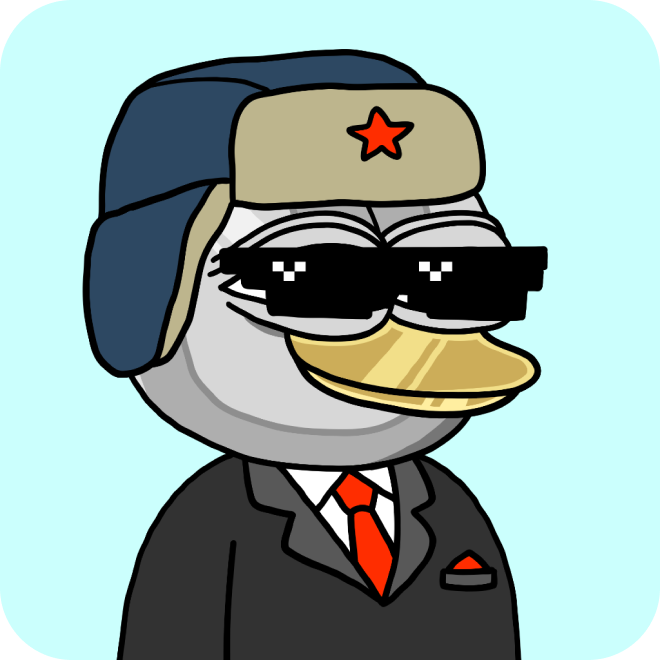
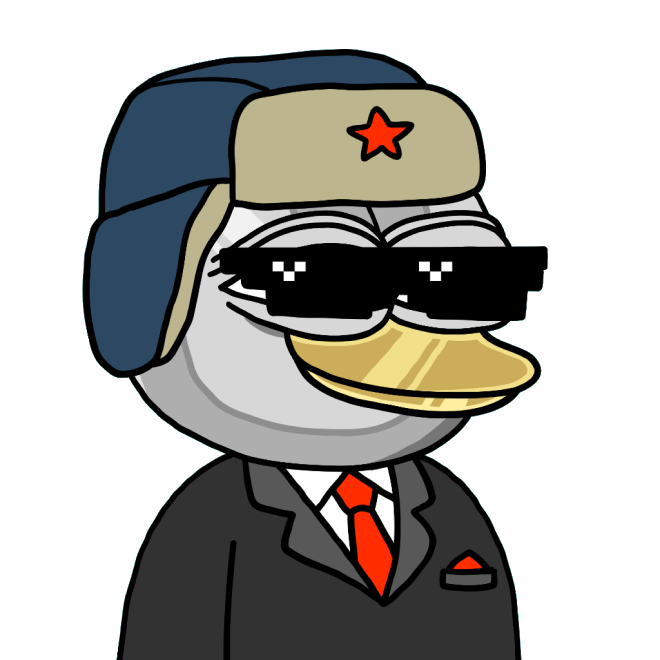
Change background feature

diff --git a/components/MintingPageContent.tsx b/components/MintingPageContent.tsx
@@ -4,22 +4,24 @@ import Link from "next/link";
 import { useRouter } from "next/router";
 import { Button } from "./ui/button";
 import { ChevronLeft } from "lucide-react";
-import ChooseItemCarousel from "./chooseItemCarousel";
+import ChooseItemCarousel from "./ChooseItemCarousel";
 import backgroundColorSample from "@/data/backgroundColorSample.json"
 import backgroundColorSample2 from "@/data/backgroundColorSample2.json"
-
+import { useState } from "react";
 
 const MintingPageContent = () => {
 
     const router = useRouter();
     const tokenNamePath = router.asPath.substring(1); // Get tokenName by path without "/"
     // console.log("tokenNamePath:", tokenNamePath)
+    const [backgroundColor, setBackgroundColor] = useState("test");
+
 
     return (
-        <main className="flex flex-col items-center p-6 min-h-screen font-rubik text-lg">
+        <main className="flex flex-col items-center p-6 min-h-screen font-rubik text-lg mx-auto">
             <p className="font-medium pt-6">PFP GENERATOR</p>
             
-            <div className="flex justify-between w-full mt-7 max-w-[1080px]">
+            <div className="flex justify-between w-full mt-7">
                 <Link href="#" onClick={(e) => { e.preventDefault(); router.back(); }} className="w-full"><Button className="rounded-full h-[48px] w-[48px] bg-gray-200 hover:bg-gray-300"><ChevronLeft className="-ml-1 min-h-8 min-w-8 text-black"/></Button></Link>
                 <Button className="px-9 py-6 bg-gray-200 hover:bg-gray-300"><p className="text-black font-[450]">CONNECT WALLET</p></Button>
             </div>
@@ -28,25 +30,35 @@ const MintingPageContent = () => {
                 <div className="flex flex-col lg:mx-auto">
                     <div className="grid grid-cols-1 gap-4">
                         {nftSampleData.filter((data) => data.tokenName === tokenNamePath).map((card, index) => (
-                            <div key={index} className="flex flex-col gap-4">
-                                <Image src={card.baseImagePath} alt={card.baseImagePath} width={140} height={140}
-                                    className="rounded-xl w-full shadow" />
-                                <Link href={`/${card.tokenName}`}><Button className="bg-gray-200 hover:bg-gray-300 text-lg py-8 w-full rounded-xl text-center text-black font-medium">GENERATE RANDOMLY</Button></Link>
-                                <div className="grid grid-cols-2 gap-5 w-full">
-                                    <Button className="bg-gray-200 hover:bg-gray-300 text-lg py-8 rounded-xl text-center font-medium text-black">MINT</Button>
-                                    <Button className="bg-gray-200 hover:bg-gray-300 text-lg py-8 rounded-xl text-center font-medium text-black">DOWNLOAD</Button>
+                            <div key={index} className="flex flex-col lg:flex-row gap-4">
+                                
+                                <div className="flex flex-col gap-4 ">
+                                    <div className={`${backgroundColor} rounded-xl shadow max-w-[320px]`}>
+                                        <Image src={card.baseImagePath} alt={card.baseImagePath} width={140} height={140}
+                                        className="w-full" />
+                                    </div>
+                                    <Link href={`/${card.tokenName}`}><Button className="bg-gray-200 hover:bg-gray-300 text-lg py-8 w-full rounded-xl text-center text-black font-medium">GENERATE RANDOMLY</Button></Link>
+                                    <div className="grid grid-cols-2 gap-5 w-full">
+                                        <Button className="bg-gray-200 hover:bg-gray-300 text-lg py-8 rounded-xl text-center font-medium text-black">MINT</Button>
+                                        <Button className="bg-gray-200 hover:bg-gray-300 text-lg py-8 rounded-xl text-center font-medium text-black">DOWNLOAD</Button>
+                                    </div>
                                 </div>
+                                
                                 <div className="bg-gray-100 rounded-xl p-4">
                                     <p className="text-base font-medium py-2 text-center">CREATE YOUR PFP</p>
                                     <p className="text-base font-medium py-4">BACKGROUND</p>
-                                    {/* <ChooseItemCarousel data={backgroundColorSample} /> */}
-                                    <ChooseItemCarousel />
+                                    <ChooseItemCarousel setVariable={setBackgroundColor} data={backgroundColorSample} />
+                                    {/* <ChooseItemCarousel /> */}
                                     <p className="text-base font-medium py-4">BASE</p>
-                                    {/* <ChooseItemCarousel data={backgroundColorSample2} /> */}
+                                    <ChooseItemCarousel setVariable={setBackgroundColor} data={backgroundColorSample} />
                                     <p className="text-base font-medium py-4">EYES</p>
-                                    {/* <ChooseItemCarousel data={backgroundColorSample2} /> */}
+                                    <ChooseItemCarousel setVariable={setBackgroundColor} data={backgroundColorSample} />
                                     <p className="text-base font-medium py-4">HEAD</p>
-                                    {/* <ChooseItemCarousel data={backgroundColorSample2} /> */}
+                                    <ChooseItemCarousel setVariable={setBackgroundColor} data={backgroundColorSample2} />
+                                    <p className="text-base font-medium py-4">HEAD</p>
+                                    <ChooseItemCarousel setVariable={setBackgroundColor} data={backgroundColorSample2} />
+                                    <p className="text-base font-medium py-4">HEAD</p>
+                                    <ChooseItemCarousel setVariable={setBackgroundColor} data={backgroundColorSample2} />
                                 </div>
                             </div>
                         ))}

diff --git a/components/ChooseItemCarousel.tsx b/components/ChooseItemCarousel.tsx
@@ -1,10 +1,18 @@
-import backgroundColorSample from "@/data/backgroundColorSample.json";
+import { useState } from "react";
 
-const ChooseItemCarousel = () => {
+interface ChooseItemCarouselProps {
+  data?: string[]; // Make data optional
+  setVariable: (value: string) => void; // Add setVariable prop
+}
+
+const ChooseItemCarousel: React.FC<ChooseItemCarouselProps> = ({ data = [], setVariable }) => { // Default to an empty array
+
   return (
-    <div className="flex gap-2 w-full overflow-x-auto">
-      {backgroundColorSample.map((item, index) => (
-        <div key={index} className={`min-h-16 min-w-16 rounded-lg ${item}`} />
+    <div className="flex gap-2 w-full overflow-x-auto hide-scrollbar">
+      {data.map((item, index) => (
+        <div key={index} onClick={() => setVariable(item)} className={`min-h-16 min-w-16 rounded-lg ${item} cursor-pointer`}>
+          {/* <p>{item}</p> */}
+        </div>
       ))}
     </div>
   );

diff --git a/tailwind.config.ts b/tailwind.config.ts
@@ -7,7 +7,20 @@ const config = {
     './components/**/*.{js,ts,jsx,tsx}',
     './app/**/*.{ts,tsx,js,jsx}',
     './src/**/*.{ts,tsx,js,jsx}',
+    './data/**/*.{json}',
 	],
+  safelist: [
+    'bg-red-200',
+    'bg-yellow-200',
+    'bg-green-200',
+    'bg-sky-200',
+    'bg-violet-200',
+    'bg-red-400',
+    'bg-yellow-400',
+    'bg-green-400',
+    'bg-sky-400',
+    'bg-violet-400',
+  ],
   prefix: "",
   theme: {
     container: {

diff --git a/styles/globals.css b/styles/globals.css
@@ -74,3 +74,13 @@
       @apply bg-background text-foreground;
     }
   }
+
+  /* Add this to your CSS file */
+.hide-scrollbar {
+  -ms-overflow-style: none;  /* Internet Explorer 10+ */
+  scrollbar-width: none;  /* Firefox */
+}
+
+.hide-scrollbar::-webkit-scrollbar {
+  display: none;  /* Safari and Chrome */
+}
